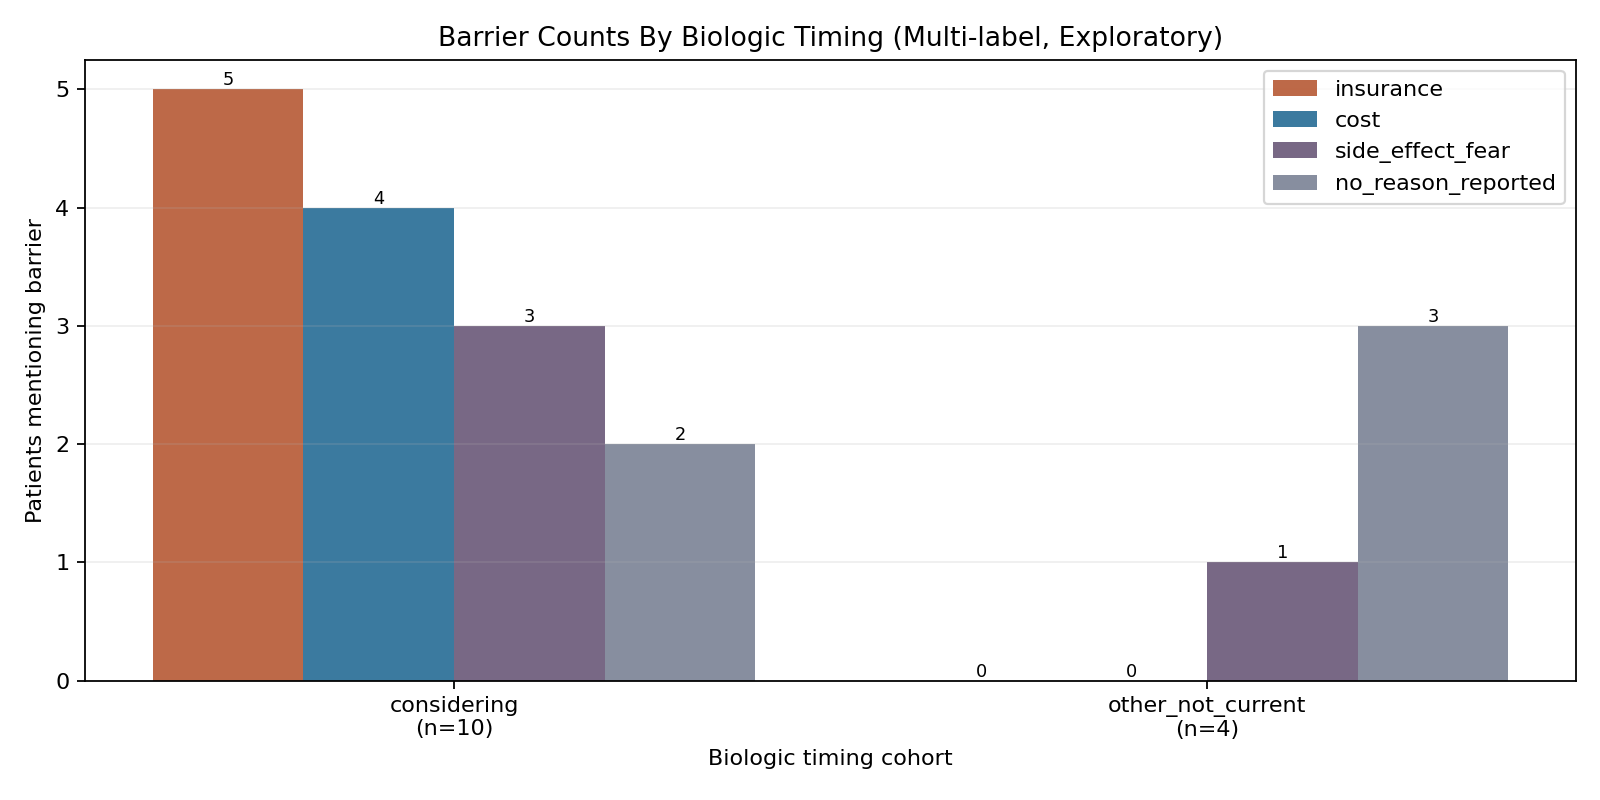
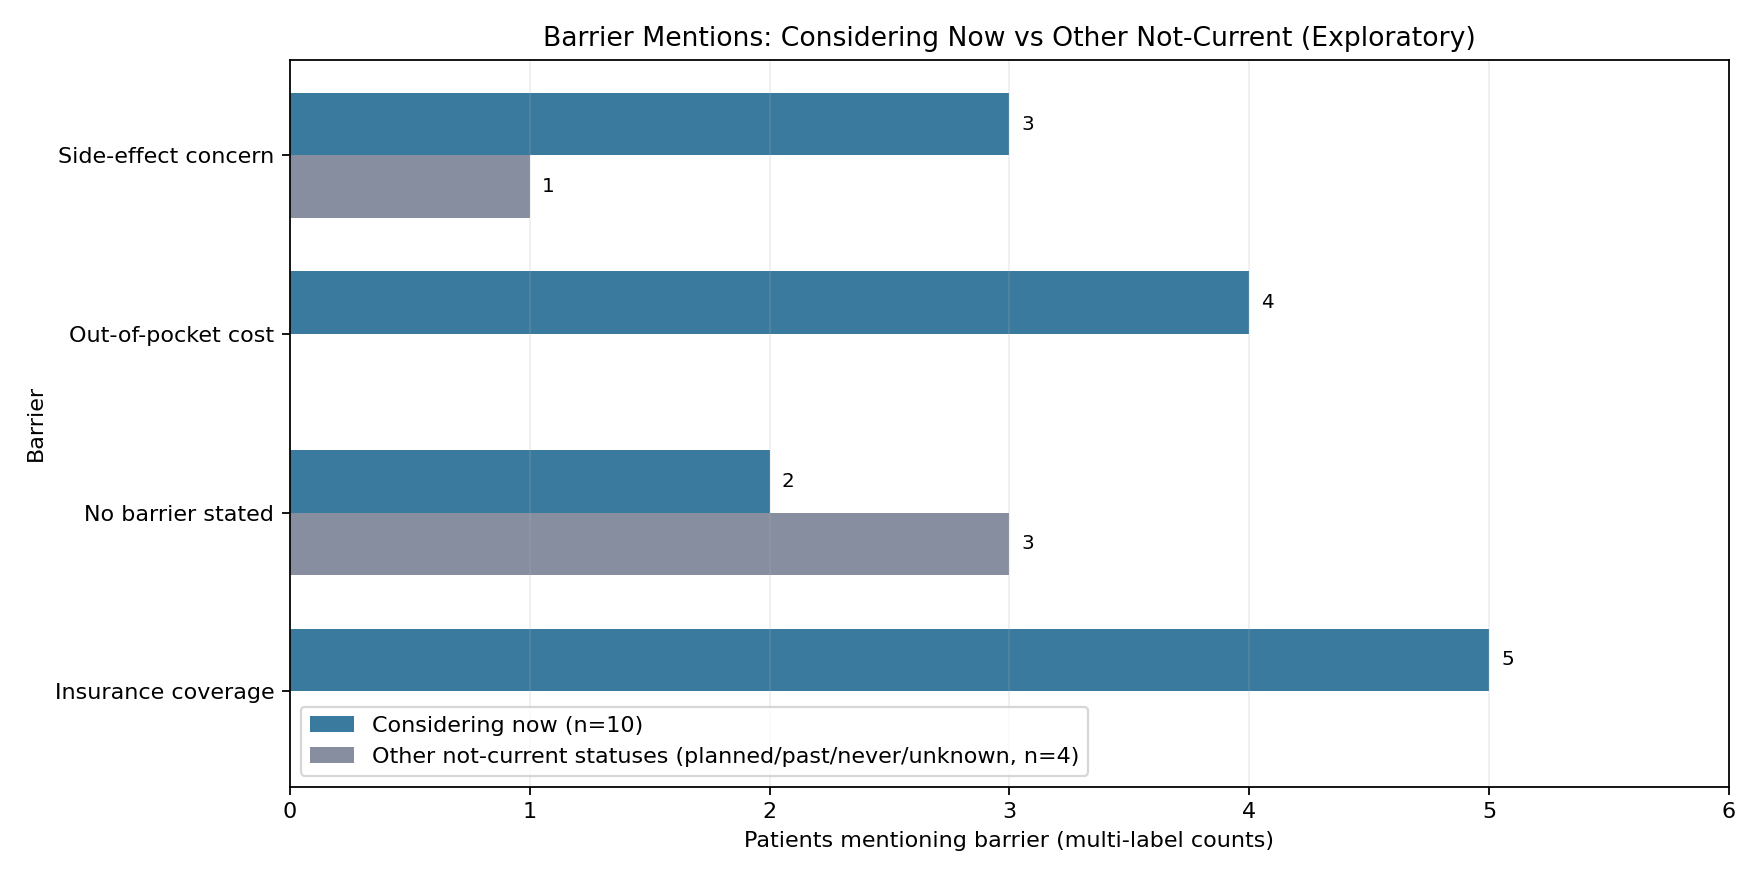
Improve barrier timing chart readability for business audience

diff --git a/data/figures/referral_pathway_sankey.html b/data/figures/referral_pathway_sankey.html
@@ -2,6 +2,6 @@
 <head><meta charset="utf-8" /></head>
 <body>
     <div>                        <script type="text/javascript">window.PlotlyConfig = {MathJaxConfig: 'local'};</script>
-        <script charset="utf-8" src="https://cdn.plot.ly/plotly-2.35.2.min.js"></script>                <div id="e3bab188-a265-4b3c-ad6b-1f0dc052b3a0" class="plotly-graph-div" style="height:100%; width:100%;"></div>            <script type="text/javascript">                                    window.PLOTLYENV=window.PLOTLYENV || {};                                    if (document.getElementById("e3bab188-a265-4b3c-ad6b-1f0dc052b3a0")) {                    Plotly.newPlot(                        "e3bab188-a265-4b3c-ad6b-1f0dc052b3a0",                        [{"arrangement":"snap","link":{"color":"rgba(42,111,151,0.35)","source":[0,2,3,1,5,6,3,4,1,0,8,1,4,11,1,4,1],"target":[1,1,1,4,1,3,0,5,7,5,1,9,10,12,13,1,14],"value":[6,3,3,3,1,1,1,1,1,1,1,1,1,1,1,1,1]},"node":{"color":"#6C5B7B","label":["Doctor","Gastroenterologist","GP\u002fPrimary Care","Emergency Department","Rheumatologist","Endocrinologist","University health center","Specialist","Psychiatrist","nephrologist","oncologist","health center","Colonoscopy","Neurologist","Nephrologist"],"pad":18,"thickness":18},"type":"sankey"}],                        {"template":{"data":{"histogram2dcontour":[{"type":"histogram2dcontour","colorbar":{"outlinewidth":0,"ticks":""},"colorscale":[[0.0,"#0d0887"],[0.1111111111111111,"#46039f"],[0.2222222222222222,"#7201a8"],[0.3333333333333333,"#9c179e"],[0.4444444444444444,"#bd3786"],[0.5555555555555556,"#d8576b"],[0.6666666666666666,"#ed7953"],[0.7777777777777778,"#fb9f3a"],[0.8888888888888888,"#fdca26"],[1.0,"#f0f921"]]}],"choropleth":[{"type":"choropleth","colorbar":{"outlinewidth":0,"ticks":""}}],"histogram2d":[{"type":"histogram2d","colorbar":{"outlinewidth":0,"ticks":""},"colorscale":[[0.0,"#0d0887"],[0.1111111111111111,"#46039f"],[0.2222222222222222,"#7201a8"],[0.3333333333333333,"#9c179e"],[0.4444444444444444,"#bd3786"],[0.5555555555555556,"#d8576b"],[0.6666666666666666,"#ed7953"],[0.7777777777777778,"#fb9f3a"],[0.8888888888888888,"#fdca26"],[1.0,"#f0f921"]]}],"heatmap":[{"type":"heatmap","colorbar":{"outlinewidth":0,"ticks":""},"colorscale":[[0.0,"#0d0887"],[0.1111111111111111,"#46039f"],[0.2222222222222222,"#7201a8"],[0.3333333333333333,"#9c179e"],[0.4444444444444444,"#bd3786"],[0.5555555555555556,"#d8576b"],[0.6666666666666666,"#ed7953"],[0.7777777777777778,"#fb9f3a"],[0.8888888888888888,"#fdca26"],[1.0,"#f0f921"]]}],"heatmapgl":[{"type":"heatmapgl","colorbar":{"outlinewidth":0,"ticks":""},"colorscale":[[0.0,"#0d0887"],[0.1111111111111111,"#46039f"],[0.2222222222222222,"#7201a8"],[0.3333333333333333,"#9c179e"],[0.4444444444444444,"#bd3786"],[0.5555555555555556,"#d8576b"],[0.6666666666666666,"#ed7953"],[0.7777777777777778,"#fb9f3a"],[0.8888888888888888,"#fdca26"],[1.0,"#f0f921"]]}],"contourcarpet":[{"type":"contourcarpet","colorbar":{"outlinewidth":0,"ticks":""}}],"contour":[{"type":"contour","colorbar":{"outlinewidth":0,"ticks":""},"colorscale":[[0.0,"#0d0887"],[0.1111111111111111,"#46039f"],[0.2222222222222222,"#7201a8"],[0.3333333333333333,"#9c179e"],[0.4444444444444444,"#bd3786"],[0.5555555555555556,"#d8576b"],[0.6666666666666666,"#ed7953"],[0.7777777777777778,"#fb9f3a"],[0.8888888888888888,"#fdca26"],[1.0,"#f0f921"]]}],"surface":[{"type":"surface","colorbar":{"outlinewidth":0,"ticks":""},"colorscale":[[0.0,"#0d0887"],[0.1111111111111111,"#46039f"],[0.2222222222222222,"#7201a8"],[0.3333333333333333,"#9c179e"],[0.4444444444444444,"#bd3786"],[0.5555555555555556,"#d8576b"],[0.6666666666666666,"#ed7953"],[0.7777777777777778,"#fb9f3a"],[0.8888888888888888,"#fdca26"],[1.0,"#f0f921"]]}],"mesh3d":[{"type":"mesh3d","colorbar":{"outlinewidth":0,"ticks":""}}],"scatter":[{"fillpattern":{"fillmode":"overlay","size":10,"solidity":0.2},"type":"scatter"}],"parcoords":[{"type":"parcoords","line":{"colorbar":{"outlinewidth":0,"ticks":""}}}],"scatterpolargl":[{"type":"scatterpolargl","marker":{"colorbar":{"outlinewidth":0,"ticks":""}}}],"bar":[{"error_x":{"color":"#2a3f5f"},"error_y":{"color":"#2a3f5f"},"marker":{"line":{"color":"#E5ECF6","width":0.5},"pattern":{"fillmode":"overlay","size":10,"solidity":0.2}},"type":"bar"}],"scattergeo":[{"type":"scattergeo","marker":{"colorbar":{"outlinewidth":0,"ticks":""}}}],"scatterpolar":[{"type":"scatterpolar","marker":{"colorbar":{"outlinewidth":0,"ticks":""}}}],"histogram":[{"marker":{"pattern":{"fillmode":"overlay","size":10,"solidity":0.2}},"type":"histogram"}],"scattergl":[{"type":"scattergl","marker":{"colorbar":{"outlinewidth":0,"ticks":""}}}],"scatter3d":[{"type":"scatter3d","line":{"colorbar":{"outlinewidth":0,"ticks":""}},"marker":{"colorbar":{"outlinewidth":0,"ticks":""}}}],"scattermapbox":[{"type":"scattermapbox","marker":{"colorbar":{"outlinewidth":0,"ticks":""}}}],"scatterternary":[{"type":"scatterternary","marker":{"colorbar":{"outlinewidth":0,"ticks":""}}}],"scattercarpet":[{"type":"scattercarpet","marker":{"colorbar":{"outlinewidth":0,"ticks":""}}}],"carpet":[{"aaxis":{"endlinecolor":"#2a3f5f","gridcolor":"white","linecolor":"white","minorgridcolor":"white","startlinecolor":"#2a3f5f"},"baxis":{"endlinecolor":"#2a3f5f","gridcolor":"white","linecolor":"white","minorgridcolor":"white","startlinecolor":"#2a3f5f"},"type":"carpet"}],"table":[{"cells":{"fill":{"color":"#EBF0F8"},"line":{"color":"white"}},"header":{"fill":{"color":"#C8D4E3"},"line":{"color":"white"}},"type":"table"}],"barpolar":[{"marker":{"line":{"color":"#E5ECF6","width":0.5},"pattern":{"fillmode":"overlay","size":10,"solidity":0.2}},"type":"barpolar"}],"pie":[{"automargin":true,"type":"pie"}]},"layout":{"autotypenumbers":"strict","colorway":["#636efa","#EF553B","#00cc96","#ab63fa","#FFA15A","#19d3f3","#FF6692","#B6E880","#FF97FF","#FECB52"],"font":{"color":"#2a3f5f"},"hovermode":"closest","hoverlabel":{"align":"left"},"paper_bgcolor":"white","plot_bgcolor":"#E5ECF6","polar":{"bgcolor":"#E5ECF6","angularaxis":{"gridcolor":"white","linecolor":"white","ticks":""},"radialaxis":{"gridcolor":"white","linecolor":"white","ticks":""}},"ternary":{"bgcolor":"#E5ECF6","aaxis":{"gridcolor":"white","linecolor":"white","ticks":""},"baxis":{"gridcolor":"white","linecolor":"white","ticks":""},"caxis":{"gridcolor":"white","linecolor":"white","ticks":""}},"coloraxis":{"colorbar":{"outlinewidth":0,"ticks":""}},"colorscale":{"sequential":[[0.0,"#0d0887"],[0.1111111111111111,"#46039f"],[0.2222222222222222,"#7201a8"],[0.3333333333333333,"#9c179e"],[0.4444444444444444,"#bd3786"],[0.5555555555555556,"#d8576b"],[0.6666666666666666,"#ed7953"],[0.7777777777777778,"#fb9f3a"],[0.8888888888888888,"#fdca26"],[1.0,"#f0f921"]],"sequentialminus":[[0.0,"#0d0887"],[0.1111111111111111,"#46039f"],[0.2222222222222222,"#7201a8"],[0.3333333333333333,"#9c179e"],[0.4444444444444444,"#bd3786"],[0.5555555555555556,"#d8576b"],[0.6666666666666666,"#ed7953"],[0.7777777777777778,"#fb9f3a"],[0.8888888888888888,"#fdca26"],[1.0,"#f0f921"]],"diverging":[[0,"#8e0152"],[0.1,"#c51b7d"],[0.2,"#de77ae"],[0.3,"#f1b6da"],[0.4,"#fde0ef"],[0.5,"#f7f7f7"],[0.6,"#e6f5d0"],[0.7,"#b8e186"],[0.8,"#7fbc41"],[0.9,"#4d9221"],[1,"#276419"]]},"xaxis":{"gridcolor":"white","linecolor":"white","ticks":"","title":{"standoff":15},"zerolinecolor":"white","automargin":true,"zerolinewidth":2},"yaxis":{"gridcolor":"white","linecolor":"white","ticks":"","title":{"standoff":15},"zerolinecolor":"white","automargin":true,"zerolinewidth":2},"scene":{"xaxis":{"backgroundcolor":"#E5ECF6","gridcolor":"white","linecolor":"white","showbackground":true,"ticks":"","zerolinecolor":"white","gridwidth":2},"yaxis":{"backgroundcolor":"#E5ECF6","gridcolor":"white","linecolor":"white","showbackground":true,"ticks":"","zerolinecolor":"white","gridwidth":2},"zaxis":{"backgroundcolor":"#E5ECF6","gridcolor":"white","linecolor":"white","showbackground":true,"ticks":"","zerolinecolor":"white","gridwidth":2}},"shapedefaults":{"line":{"color":"#2a3f5f"}},"annotationdefaults":{"arrowcolor":"#2a3f5f","arrowhead":0,"arrowwidth":1},"geo":{"bgcolor":"white","landcolor":"#E5ECF6","subunitcolor":"white","showland":true,"showlakes":true,"lakecolor":"white"},"title":{"x":0.05},"mapbox":{"style":"light"}}},"title":{"text":"Referral Pathway Sankey (Top Transition Flows)"},"font":{"size":12},"margin":{"l":10,"r":10,"t":45,"b":10}},                        {"responsive": true}                    )                };                            </script>        </div>
+        <script charset="utf-8" src="https://cdn.plot.ly/plotly-2.35.2.min.js"></script>                <div id="30cfb3f9-a0b5-49b9-bc90-925ddc596c3f" class="plotly-graph-div" style="height:100%; width:100%;"></div>            <script type="text/javascript">                                    window.PLOTLYENV=window.PLOTLYENV || {};                                    if (document.getElementById("30cfb3f9-a0b5-49b9-bc90-925ddc596c3f")) {                    Plotly.newPlot(                        "30cfb3f9-a0b5-49b9-bc90-925ddc596c3f",                        [{"arrangement":"snap","link":{"color":"rgba(42,111,151,0.35)","source":[0,2,3,1,5,6,3,4,1,0,8,1,4,11,1,4,1],"target":[1,1,1,4,1,3,0,5,7,5,1,9,10,12,13,1,14],"value":[6,3,3,3,1,1,1,1,1,1,1,1,1,1,1,1,1]},"node":{"color":"#6C5B7B","label":["Doctor","Gastroenterologist","GP\u002fPrimary Care","Emergency Department","Rheumatologist","Endocrinologist","University health center","Specialist","Psychiatrist","nephrologist","oncologist","health center","Colonoscopy","Neurologist","Nephrologist"],"pad":18,"thickness":18},"type":"sankey"}],                        {"template":{"data":{"histogram2dcontour":[{"type":"histogram2dcontour","colorbar":{"outlinewidth":0,"ticks":""},"colorscale":[[0.0,"#0d0887"],[0.1111111111111111,"#46039f"],[0.2222222222222222,"#7201a8"],[0.3333333333333333,"#9c179e"],[0.4444444444444444,"#bd3786"],[0.5555555555555556,"#d8576b"],[0.6666666666666666,"#ed7953"],[0.7777777777777778,"#fb9f3a"],[0.8888888888888888,"#fdca26"],[1.0,"#f0f921"]]}],"choropleth":[{"type":"choropleth","colorbar":{"outlinewidth":0,"ticks":""}}],"histogram2d":[{"type":"histogram2d","colorbar":{"outlinewidth":0,"ticks":""},"colorscale":[[0.0,"#0d0887"],[0.1111111111111111,"#46039f"],[0.2222222222222222,"#7201a8"],[0.3333333333333333,"#9c179e"],[0.4444444444444444,"#bd3786"],[0.5555555555555556,"#d8576b"],[0.6666666666666666,"#ed7953"],[0.7777777777777778,"#fb9f3a"],[0.8888888888888888,"#fdca26"],[1.0,"#f0f921"]]}],"heatmap":[{"type":"heatmap","colorbar":{"outlinewidth":0,"ticks":""},"colorscale":[[0.0,"#0d0887"],[0.1111111111111111,"#46039f"],[0.2222222222222222,"#7201a8"],[0.3333333333333333,"#9c179e"],[0.4444444444444444,"#bd3786"],[0.5555555555555556,"#d8576b"],[0.6666666666666666,"#ed7953"],[0.7777777777777778,"#fb9f3a"],[0.8888888888888888,"#fdca26"],[1.0,"#f0f921"]]}],"heatmapgl":[{"type":"heatmapgl","colorbar":{"outlinewidth":0,"ticks":""},"colorscale":[[0.0,"#0d0887"],[0.1111111111111111,"#46039f"],[0.2222222222222222,"#7201a8"],[0.3333333333333333,"#9c179e"],[0.4444444444444444,"#bd3786"],[0.5555555555555556,"#d8576b"],[0.6666666666666666,"#ed7953"],[0.7777777777777778,"#fb9f3a"],[0.8888888888888888,"#fdca26"],[1.0,"#f0f921"]]}],"contourcarpet":[{"type":"contourcarpet","colorbar":{"outlinewidth":0,"ticks":""}}],"contour":[{"type":"contour","colorbar":{"outlinewidth":0,"ticks":""},"colorscale":[[0.0,"#0d0887"],[0.1111111111111111,"#46039f"],[0.2222222222222222,"#7201a8"],[0.3333333333333333,"#9c179e"],[0.4444444444444444,"#bd3786"],[0.5555555555555556,"#d8576b"],[0.6666666666666666,"#ed7953"],[0.7777777777777778,"#fb9f3a"],[0.8888888888888888,"#fdca26"],[1.0,"#f0f921"]]}],"surface":[{"type":"surface","colorbar":{"outlinewidth":0,"ticks":""},"colorscale":[[0.0,"#0d0887"],[0.1111111111111111,"#46039f"],[0.2222222222222222,"#7201a8"],[0.3333333333333333,"#9c179e"],[0.4444444444444444,"#bd3786"],[0.5555555555555556,"#d8576b"],[0.6666666666666666,"#ed7953"],[0.7777777777777778,"#fb9f3a"],[0.8888888888888888,"#fdca26"],[1.0,"#f0f921"]]}],"mesh3d":[{"type":"mesh3d","colorbar":{"outlinewidth":0,"ticks":""}}],"scatter":[{"fillpattern":{"fillmode":"overlay","size":10,"solidity":0.2},"type":"scatter"}],"parcoords":[{"type":"parcoords","line":{"colorbar":{"outlinewidth":0,"ticks":""}}}],"scatterpolargl":[{"type":"scatterpolargl","marker":{"colorbar":{"outlinewidth":0,"ticks":""}}}],"bar":[{"error_x":{"color":"#2a3f5f"},"error_y":{"color":"#2a3f5f"},"marker":{"line":{"color":"#E5ECF6","width":0.5},"pattern":{"fillmode":"overlay","size":10,"solidity":0.2}},"type":"bar"}],"scattergeo":[{"type":"scattergeo","marker":{"colorbar":{"outlinewidth":0,"ticks":""}}}],"scatterpolar":[{"type":"scatterpolar","marker":{"colorbar":{"outlinewidth":0,"ticks":""}}}],"histogram":[{"marker":{"pattern":{"fillmode":"overlay","size":10,"solidity":0.2}},"type":"histogram"}],"scattergl":[{"type":"scattergl","marker":{"colorbar":{"outlinewidth":0,"ticks":""}}}],"scatter3d":[{"type":"scatter3d","line":{"colorbar":{"outlinewidth":0,"ticks":""}},"marker":{"colorbar":{"outlinewidth":0,"ticks":""}}}],"scattermapbox":[{"type":"scattermapbox","marker":{"colorbar":{"outlinewidth":0,"ticks":""}}}],"scatterternary":[{"type":"scatterternary","marker":{"colorbar":{"outlinewidth":0,"ticks":""}}}],"scattercarpet":[{"type":"scattercarpet","marker":{"colorbar":{"outlinewidth":0,"ticks":""}}}],"carpet":[{"aaxis":{"endlinecolor":"#2a3f5f","gridcolor":"white","linecolor":"white","minorgridcolor":"white","startlinecolor":"#2a3f5f"},"baxis":{"endlinecolor":"#2a3f5f","gridcolor":"white","linecolor":"white","minorgridcolor":"white","startlinecolor":"#2a3f5f"},"type":"carpet"}],"table":[{"cells":{"fill":{"color":"#EBF0F8"},"line":{"color":"white"}},"header":{"fill":{"color":"#C8D4E3"},"line":{"color":"white"}},"type":"table"}],"barpolar":[{"marker":{"line":{"color":"#E5ECF6","width":0.5},"pattern":{"fillmode":"overlay","size":10,"solidity":0.2}},"type":"barpolar"}],"pie":[{"automargin":true,"type":"pie"}]},"layout":{"autotypenumbers":"strict","colorway":["#636efa","#EF553B","#00cc96","#ab63fa","#FFA15A","#19d3f3","#FF6692","#B6E880","#FF97FF","#FECB52"],"font":{"color":"#2a3f5f"},"hovermode":"closest","hoverlabel":{"align":"left"},"paper_bgcolor":"white","plot_bgcolor":"#E5ECF6","polar":{"bgcolor":"#E5ECF6","angularaxis":{"gridcolor":"white","linecolor":"white","ticks":""},"radialaxis":{"gridcolor":"white","linecolor":"white","ticks":""}},"ternary":{"bgcolor":"#E5ECF6","aaxis":{"gridcolor":"white","linecolor":"white","ticks":""},"baxis":{"gridcolor":"white","linecolor":"white","ticks":""},"caxis":{"gridcolor":"white","linecolor":"white","ticks":""}},"coloraxis":{"colorbar":{"outlinewidth":0,"ticks":""}},"colorscale":{"sequential":[[0.0,"#0d0887"],[0.1111111111111111,"#46039f"],[0.2222222222222222,"#7201a8"],[0.3333333333333333,"#9c179e"],[0.4444444444444444,"#bd3786"],[0.5555555555555556,"#d8576b"],[0.6666666666666666,"#ed7953"],[0.7777777777777778,"#fb9f3a"],[0.8888888888888888,"#fdca26"],[1.0,"#f0f921"]],"sequentialminus":[[0.0,"#0d0887"],[0.1111111111111111,"#46039f"],[0.2222222222222222,"#7201a8"],[0.3333333333333333,"#9c179e"],[0.4444444444444444,"#bd3786"],[0.5555555555555556,"#d8576b"],[0.6666666666666666,"#ed7953"],[0.7777777777777778,"#fb9f3a"],[0.8888888888888888,"#fdca26"],[1.0,"#f0f921"]],"diverging":[[0,"#8e0152"],[0.1,"#c51b7d"],[0.2,"#de77ae"],[0.3,"#f1b6da"],[0.4,"#fde0ef"],[0.5,"#f7f7f7"],[0.6,"#e6f5d0"],[0.7,"#b8e186"],[0.8,"#7fbc41"],[0.9,"#4d9221"],[1,"#276419"]]},"xaxis":{"gridcolor":"white","linecolor":"white","ticks":"","title":{"standoff":15},"zerolinecolor":"white","automargin":true,"zerolinewidth":2},"yaxis":{"gridcolor":"white","linecolor":"white","ticks":"","title":{"standoff":15},"zerolinecolor":"white","automargin":true,"zerolinewidth":2},"scene":{"xaxis":{"backgroundcolor":"#E5ECF6","gridcolor":"white","linecolor":"white","showbackground":true,"ticks":"","zerolinecolor":"white","gridwidth":2},"yaxis":{"backgroundcolor":"#E5ECF6","gridcolor":"white","linecolor":"white","showbackground":true,"ticks":"","zerolinecolor":"white","gridwidth":2},"zaxis":{"backgroundcolor":"#E5ECF6","gridcolor":"white","linecolor":"white","showbackground":true,"ticks":"","zerolinecolor":"white","gridwidth":2}},"shapedefaults":{"line":{"color":"#2a3f5f"}},"annotationdefaults":{"arrowcolor":"#2a3f5f","arrowhead":0,"arrowwidth":1},"geo":{"bgcolor":"white","landcolor":"#E5ECF6","subunitcolor":"white","showland":true,"showlakes":true,"lakecolor":"white"},"title":{"x":0.05},"mapbox":{"style":"light"}}},"title":{"text":"Referral Pathway Sankey (Top Transition Flows)"},"font":{"size":12},"margin":{"l":10,"r":10,"t":45,"b":10}},                        {"responsive": true}                    )                };                            </script>        </div>
 </body>
 </html>

diff --git a/src/plot_analysis.py b/src/plot_analysis.py
@@ -169,11 +169,11 @@ def chart_reason_rates_by_timing(rows: List[Dict], out_dir: Path) -> Path:
     # Use counts (not percentages) to avoid a misleading "must sum to 100%" read.
     # Reasons are multi-label (a patient can mention more than one).
     key_groups = ["insurance", "cost", "side_effect_fear", "no_reason_reported"]
-    palette = {
-        "insurance": "#B85C38",
-        "cost": "#2A6F97",
-        "side_effect_fear": "#6C5B7B",
-        "no_reason_reported": "#7D8597",
+    label_by_group = {
+        "insurance": "Insurance coverage",
+        "cost": "Out-of-pocket cost",
+        "side_effect_fear": "Side-effect concern",
+        "no_reason_reported": "No barrier stated",
     }
 
     considering_rows = [
@@ -186,15 +186,13 @@ def chart_reason_rates_by_timing(rows: List[Dict], out_dir: Path) -> Path:
         and row.get("biologic_timing") != "considering"
     ]
     cohorts = [
-        ("considering", considering_rows),
-        ("other_not_current", other_not_current_rows),
+        ("Considering now", considering_rows),
+        ("Other not-current statuses", other_not_current_rows),
     ]
 
     counts_by_group: Dict[str, List[int]] = {group: [] for group in key_groups}
-    labels: List[str] = []
 
-    for cohort_name, cohort_rows in cohorts:
-        labels.append(f"{cohort_name}\n(n={len(cohort_rows)})")
+    for _cohort_name, cohort_rows in cohorts:
         for group in key_groups:
             if group == "no_reason_reported":
                 count = sum(
@@ -214,31 +212,65 @@ def chart_reason_rates_by_timing(rows: List[Dict], out_dir: Path) -> Path:
                 )
             counts_by_group[group].append(count)
 
-    plt.figure(figsize=(10, 5))
-    x = list(range(len(labels)))
-    width = 0.2
-    for i, group in enumerate(key_groups):
-        offset = (i - 1.5) * width
-        xs = [xi + offset for xi in x]
-        ys = counts_by_group[group]
-        bars = plt.bar(
-            xs, ys, width=width, label=group, color=palette[group], alpha=0.92
-        )
-        for bar, value in zip(bars, ys):
+    ordered_groups = sorted(
+        key_groups,
+        key=lambda group: counts_by_group[group][0] + counts_by_group[group][1],
+        reverse=True,
+    )
+
+    cohort_a_name = f"{cohorts[0][0]} (n={len(cohorts[0][1])})"
+    cohort_b_name = (
+        f"{cohorts[1][0]} (planned/past/never/unknown, n={len(cohorts[1][1])})"
+    )
+
+    y = list(range(len(ordered_groups)))
+    height = 0.35
+    cohort_a_values = [counts_by_group[group][0] for group in ordered_groups]
+    cohort_b_values = [counts_by_group[group][1] for group in ordered_groups]
+
+    plt.figure(figsize=(11, 5.5))
+    bars_a = plt.barh(
+        [yi + height / 2 for yi in y],
+        cohort_a_values,
+        height=height,
+        color="#2A6F97",
+        label=cohort_a_name,
+        alpha=0.92,
+    )
+    bars_b = plt.barh(
+        [yi - height / 2 for yi in y],
+        cohort_b_values,
+        height=height,
+        color="#7D8597",
+        label=cohort_b_name,
+        alpha=0.92,
+    )
+
+    for bars in (bars_a, bars_b):
+        for bar in bars:
+            value = int(bar.get_width())
+            if value == 0:
+                continue
             plt.text(
-                bar.get_x() + bar.get_width() / 2,
-                bar.get_height(),
+                value + 0.05,
+                bar.get_y() + bar.get_height() / 2,
                 f"{value}",
-                ha="center",
-                va="bottom",
-                fontsize=8,
+                va="center",
+                ha="left",
+                fontsize=9,
             )
 
-    plt.xticks(x, labels)
-    plt.ylabel("Patients mentioning barrier")
-    plt.xlabel("Biologic timing cohort")
-    plt.title("Barrier Counts By Biologic Timing (Multi-label, Exploratory)")
-    plt.grid(axis="y", alpha=0.2)
+    max_count = (
+        max(cohort_a_values + cohort_b_values)
+        if (cohort_a_values or cohort_b_values)
+        else 0
+    )
+    plt.xlim(0, max_count + 1)
+    plt.yticks(y, [label_by_group[group] for group in ordered_groups])
+    plt.xlabel("Patients mentioning barrier (multi-label counts)")
+    plt.ylabel("Barrier")
+    plt.title("Barrier Mentions: Considering Now vs Other Not-Current (Exploratory)")
+    plt.grid(axis="x", alpha=0.2)
     plt.legend()
     plt.tight_layout()
 

diff --git a/README.md b/README.md
@@ -127,7 +127,7 @@ Supportive cross-factor view (exploratory, small-sample):
 
 ![Barrier counts by biologic timing](data/figures/barrier_counts_by_biologic_timing.png)
 
-Note: this is a multi-label count chart (patients can appear in multiple barrier bars), and includes `no_reason_reported`. It is directional and needs larger subgroup sizes to be decision-grade.
+Note: this compares two business-friendly cohorts (`Considering now` vs `Other not-current statuses` = planned/past/never/unknown). It is a multi-label count chart (patients can appear in multiple barrier bars), includes `no_reason_reported` as `No barrier stated`, and is directional only until subgroup sizes are larger.
 
 ### 3. What other treatments are commonly discussed/tried before biologic?
 
